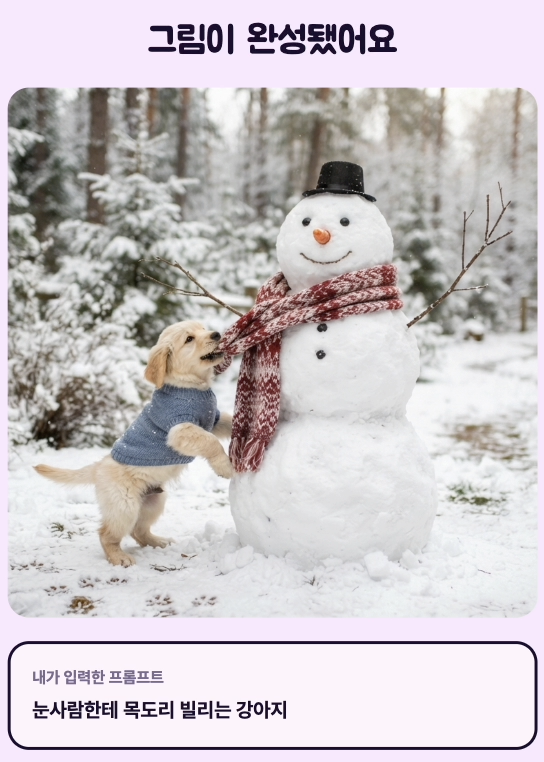
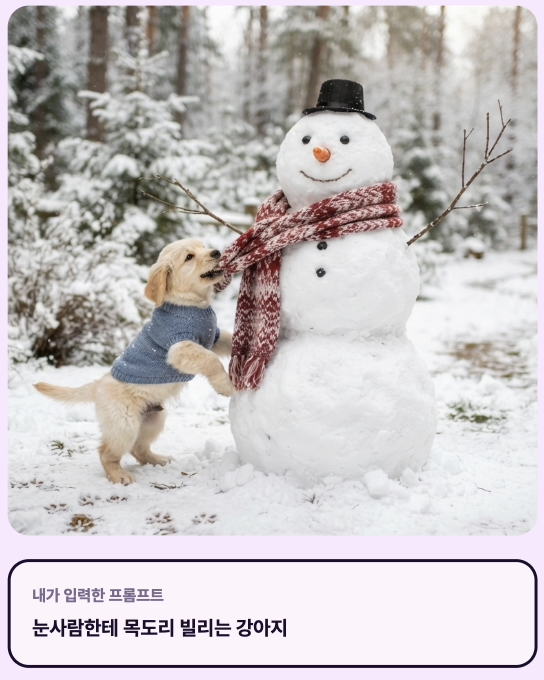
style: 홈 화면 시안 디자인에 맞게 적용
- 로그인 폼·플레이방법 카드 레이아웃 및 비율 조정
- 플레이방법 카드 반투명 흰 패널·무테두리·소프트 섀도 적용
- 플레이방법 미리보기 이미지 교체 및 프레임 조정

diff --git a/src/pages/home/components/RoomEntryForm.tsx b/src/pages/home/components/RoomEntryForm.tsx
@@ -5,7 +5,7 @@ import { useMutation } from '@tanstack/react-query';
 import { isAxiosError } from 'axios';
 import { useNavigate } from 'react-router-dom';
 
-import { Button, Input, Surface } from '../../../common/components';
+import { Button, Input } from '../../../common/components';
 import { PAGE_URL } from '../../../common/constants/pageUrl';
 import {
   trackRoomJoined,
@@ -207,11 +207,12 @@ export function RoomEntryForm() {
   };
 
   return (
-    <S_Form onSubmit={handleSubmit}>
-      <S_FormCard padding="lg">
+    <S_FormScale>
+      <S_Form onSubmit={handleSubmit}>
         <S_FieldLabel htmlFor="nickname">닉네임</S_FieldLabel>
         <Input
           id="nickname"
+          size="lg"
           maxLength={10}
           placeholder="예: 그림탐정"
           value={nickname}
@@ -226,6 +227,7 @@ export function RoomEntryForm() {
             <Input
               ref={roomCodeInputRef}
               id="room-code"
+              size="lg"
               maxLength={4}
               placeholder="예: ABCD"
               value={roomCode}
@@ -243,13 +245,13 @@ export function RoomEntryForm() {
         )}
         {isJoinMode ? (
           <>
-            <Button type="submit" disabled={isEntryPending}>
+            <Button type="submit" size="lg" disabled={isEntryPending}>
               {isJoinGamePending ? '참여 중...' : '참여하기'}
             </Button>
             <Button
               type="button"
               variant="secondary"
-              size="md"
+              size="lg"
               disabled={isEntryPending}
               onClick={handleCancelJoinButtonClick}
             >
@@ -258,13 +260,13 @@ export function RoomEntryForm() {
           </>
         ) : (
           <>
-            <Button type="submit" disabled={isEntryPending}>
+            <Button type="submit" size="lg" disabled={isEntryPending}>
               {isCreateGamePending ? '방 만드는 중...' : '새 방 만들기'}
             </Button>
             <Button
               type="button"
               variant="secondary"
-              size="md"
+              size="lg"
               disabled={isEntryPending}
               onClick={handleJoinModeButtonClick}
             >
@@ -272,24 +274,29 @@ export function RoomEntryForm() {
             </Button>
           </>
         )}
-      </S_FormCard>
-    </S_Form>
+      </S_Form>
+    </S_FormScale>
   );
 }
 
-const S_Form = styled.form`
+const S_FormScale = styled.div`
   width: 100%;
-  max-width: 40rem;
 `;
 
-const S_FormCard = styled(Surface)`
+const S_Form = styled.form`
   display: flex;
+  width: 100%;
   flex-direction: column;
-  gap: 1.2rem;
+  gap: 1.6rem;
+  padding: 2rem;
+  background: ${({ theme }) => theme.COLOR.WHITE};
+  border: ${({ theme }) => theme.BORDER.DEFAULT};
+  border-radius: ${({ theme }) => theme.RADIUS.LG};
+  box-shadow: none;
 `;
 
 const S_FieldLabel = styled.label`
-  ${({ theme }) => theme.TYPOGRAPHY.LABEL1}
+  ${({ theme }) => theme.TYPOGRAPHY.B3_B}
   color: ${({ theme }) => theme.COLOR.TEXT_SUBTLE};
 `;
 

diff --git a/src/pages/home/components/PlayGuideCarousel.tsx b/src/pages/home/components/PlayGuideCarousel.tsx
@@ -4,11 +4,14 @@ import styled from '@emotion/styled';
 import Autoplay from 'embla-carousel-autoplay';
 import useEmblaCarousel from 'embla-carousel-react';
 
+import { PLAY_GUIDE_COMPACT_MEDIA_QUERY } from '../constants/playGuideSlides';
+
 import PlayGuideSlide from './PlayGuideSlide';
 
 import type { PlayGuideSlideData } from '../types/playGuide';
 
 const PLAY_GUIDE_AUTOPLAY_DELAY = 5000;
+const PLAY_GUIDE_AUTOPLAY_ENABLED = false;
 const REDUCED_MOTION_MEDIA_QUERY = '(prefers-reduced-motion: reduce)';
 
 type PlayGuideCarouselProps = {
@@ -25,9 +28,10 @@ export default function PlayGuideCarousel({ slides }: PlayGuideCarouselProps) {
       }),
     [],
   );
-  const [emblaRef, emblaApi] = useEmblaCarousel({ loop: slides.length > 1 }, [
-    autoplay,
-  ]);
+  const [emblaRef, emblaApi] = useEmblaCarousel(
+    { loop: slides.length > 1 },
+    PLAY_GUIDE_AUTOPLAY_ENABLED ? [autoplay] : [],
+  );
   const [selectedIndex, setSelectedIndex] = useState(0);
   const [isReducedMotion, setIsReducedMotion] = useState(
     () =>
@@ -96,7 +100,7 @@ export default function PlayGuideCarousel({ slides }: PlayGuideCarouselProps) {
   useEffect(() => {
     const autoplayApi = emblaApi?.plugins().autoplay;
 
-    if (!autoplayApi) {
+    if (!autoplayApi || !PLAY_GUIDE_AUTOPLAY_ENABLED) {
       return;
     }
 
@@ -167,6 +171,10 @@ const S_Carousel = styled.section`
   width: 100%;
   flex-direction: column;
   gap: 1.6rem;
+
+  @media ${PLAY_GUIDE_COMPACT_MEDIA_QUERY} {
+    gap: 1.6rem;
+  }
 `;
 
 const S_Viewport = styled.div`
@@ -189,14 +197,18 @@ const S_Controls = styled.div`
   display: flex;
   align-items: center;
   justify-content: center;
-  gap: 1rem;
+  gap: 0.8rem;
+
+  @media ${PLAY_GUIDE_COMPACT_MEDIA_QUERY} {
+    gap: 1rem;
+  }
 `;
 
 const S_ArrowButton = styled.button`
   display: inline-flex;
   align-items: center;
   justify-content: center;
-  padding: 0.4rem;
+  padding: 0.2rem;
   border: 0;
   background: transparent;
   color: ${({ theme }) => theme.COLOR.TEXT};
@@ -211,10 +223,18 @@ const S_ArrowButton = styled.button`
     color: ${({ theme }) => theme.COLOR.TEXT_SUBTLE};
     cursor: not-allowed;
   }
+
+  @media ${PLAY_GUIDE_COMPACT_MEDIA_QUERY} {
+    padding: 0.4rem;
+  }
 `;
 
 const S_Arrow = styled.span`
-  ${({ theme }) => theme.TYPOGRAPHY.TITLE1}
+  ${({ theme }) => theme.TYPOGRAPHY.TITLE4}
+
+  @media ${PLAY_GUIDE_COMPACT_MEDIA_QUERY} {
+    ${({ theme }) => theme.TYPOGRAPHY.TITLE1}
+  }
 `;
 
 const S_DotList = styled.div`

diff --git a/src/pages/home/components/PlayGuideSlide.tsx b/src/pages/home/components/PlayGuideSlide.tsx
@@ -1,5 +1,7 @@
 import styled from '@emotion/styled';
 
+import { PLAY_GUIDE_COMPACT_MEDIA_QUERY } from '../constants/playGuideSlides';
+
 import type { PlayGuideSlideData } from '../types/playGuide';
 
 type PlayGuideSlideProps = PlayGuideSlideData;
@@ -29,25 +31,41 @@ const S_Slide = styled.article`
   min-width: 0;
   flex-direction: column;
   gap: 1.2rem;
+
+  @media ${PLAY_GUIDE_COMPACT_MEDIA_QUERY} {
+    gap: 1.2rem;
+  }
 `;
 
 const S_ImageFrame = styled.div`
   display: flex;
-  min-height: 22rem;
+  height: 12rem;
   align-items: center;
   justify-content: center;
   overflow: hidden;
   width: 100%;
-  padding: 1.2rem;
+
   background: ${({ theme }) => theme.COLOR.BACKGROUND};
   border-radius: ${({ theme }) => theme.RADIUS.MD};
+
+  @media ${PLAY_GUIDE_COMPACT_MEDIA_QUERY} {
+    height: auto;
+    min-height: 22rem;
+    padding: 1.2rem;
+  }
 `;
 
 const S_Image = styled.img`
   display: block;
   max-width: 100%;
-  max-height: 30rem;
+  /* 프레임(S_ImageFrame) 높이에 종속 — 프레임만 바꾸면 이미지도 따라온다.
+     프레임이 height:auto인 모바일에서는 100%가 무의미하므로 별도 값 사용. */
+  max-height: 100%;
   object-fit: contain;
+
+  @media ${PLAY_GUIDE_COMPACT_MEDIA_QUERY} {
+    max-height: 30rem;
+  }
 `;
 
 const S_TextGroup = styled.div`
@@ -55,14 +73,26 @@ const S_TextGroup = styled.div`
   flex-direction: column;
   gap: 0.6rem;
   text-align: center;
+
+  @media ${PLAY_GUIDE_COMPACT_MEDIA_QUERY} {
+    gap: 0.6rem;
+  }
 `;
 
 const S_MainText = styled.h3`
-  ${({ theme }) => theme.TYPOGRAPHY.TITLE3}
+  ${({ theme }) => theme.TYPOGRAPHY.TITLE4}
   color: ${({ theme }) => theme.COLOR.TEXT};
+
+  @media ${PLAY_GUIDE_COMPACT_MEDIA_QUERY} {
+    ${({ theme }) => theme.TYPOGRAPHY.TITLE3}
+  }
 `;
 
 const S_SubText = styled.p`
-  ${({ theme }) => theme.TYPOGRAPHY.B3_R}
+  ${({ theme }) => theme.TYPOGRAPHY.B6_R}
   color: ${({ theme }) => theme.COLOR.TEXT_SUBTLE};
+
+  @media ${PLAY_GUIDE_COMPACT_MEDIA_QUERY} {
+    ${({ theme }) => theme.TYPOGRAPHY.B3_R}
+  }
 `;

diff --git a/src/pages/home/components/PlayGuide.tsx b/src/pages/home/components/PlayGuide.tsx
@@ -60,7 +60,6 @@ export default function PlayGuide({ slides }: PlayGuideProps) {
         isOpen={isOpen}
         role={isOpen ? 'dialog' : undefined}
         aria-modal={isOpen ? true : undefined}
-        padding="lg"
       >
         <S_PanelHeader>
           <S_Title id="play-guide-title">플레이 방법</S_Title>
@@ -117,8 +116,12 @@ const S_Panel = styled(Surface, {
   display: flex;
   max-width: 38rem;
   flex-direction: column;
-  gap: 1.6rem;
-  background: ${({ theme }) => theme.COLOR.PINK50};
+  gap: 0.6rem;
+  /* 4c: 반투명 흰 패널이 핑크 배경에 녹아들고, 로그인 카드가 도드라짐 */
+  background: rgba(255, 255, 255, 0.55);
+  border: none;
+  box-shadow: 0 1rem 2.4rem rgba(27, 17, 48, 0.06);
+  padding: 1.5rem;
 
   @media ${PLAY_GUIDE_COMPACT_MEDIA_QUERY} {
     display: ${({ isOpen }) => (isOpen ? 'flex' : 'none')};
@@ -127,9 +130,12 @@ const S_Panel = styled(Surface, {
     inset: 0;
     max-width: none;
     height: 100dvh;
+    padding: 1.5rem;
+    background: ${({ theme }) => theme.COLOR.PINK50};
     border: 0;
     border-radius: 0;
     box-shadow: none;
+    gap: 0.6rem;
   }
 `;
 
@@ -137,11 +143,15 @@ const S_PanelHeader = styled.header`
   display: flex;
   align-items: center;
   justify-content: center;
-  min-height: 3.2rem;
+  min-height: 2.4rem;
+
+  @media ${PLAY_GUIDE_COMPACT_MEDIA_QUERY} {
+    min-height: 3.2rem;
+  }
 `;
 
 const S_Title = styled.h2`
-  ${({ theme }) => theme.TYPOGRAPHY.TITLE2}
+  ${({ theme }) => theme.TYPOGRAPHY.TITLE4}
   color: ${({ theme }) => theme.COLOR.TEXT_SUBTLE};
   text-align: center;
 `;

diff --git a/src/pages/home/HomePage.tsx b/src/pages/home/HomePage.tsx
@@ -21,10 +21,7 @@ export function HomePage() {
     <S_Page>
       <HomeHero />
       <S_MainContent>
-        <S_EntryColumn>
-          <RoomEntryForm />
-          <S_Footnote>🔓 로그인 없이 닉네임만으로 바로 시작</S_Footnote>
-        </S_EntryColumn>
+        <RoomEntryForm />
         <PlayGuide slides={PLAY_GUIDE_SLIDES} />
       </S_MainContent>
     </S_Page>
@@ -45,28 +42,16 @@ const S_Page = styled.main`
 const S_MainContent = styled.div`
   display: grid;
   width: 100%;
-  max-width: 100rem;
-  grid-template-columns: minmax(0, 40rem) minmax(0, 38rem);
-  align-items: center;
+  max-width: 88.4rem;
+  grid-template-columns: minmax(0, 56rem) minmax(0, 30rem);
+  align-items: stretch;
   justify-content: center;
-  gap: 4rem;
+  column-gap: 2.4rem;
+  row-gap: 0;
 
   @media ${PLAY_GUIDE_COMPACT_MEDIA_QUERY} {
     display: flex;
     flex-direction: column;
     align-items: center;
   }
-`;
-
-const S_EntryColumn = styled.div`
-  display: flex;
-  width: 100%;
-  flex-direction: column;
-  align-items: center;
-  gap: 1.6rem;
-`;
-
-const S_Footnote = styled.p`
-  ${({ theme }) => theme.TYPOGRAPHY.B5_R}
-  color: ${({ theme }) => theme.COLOR.TEXT_SUBTLE};
 `;
